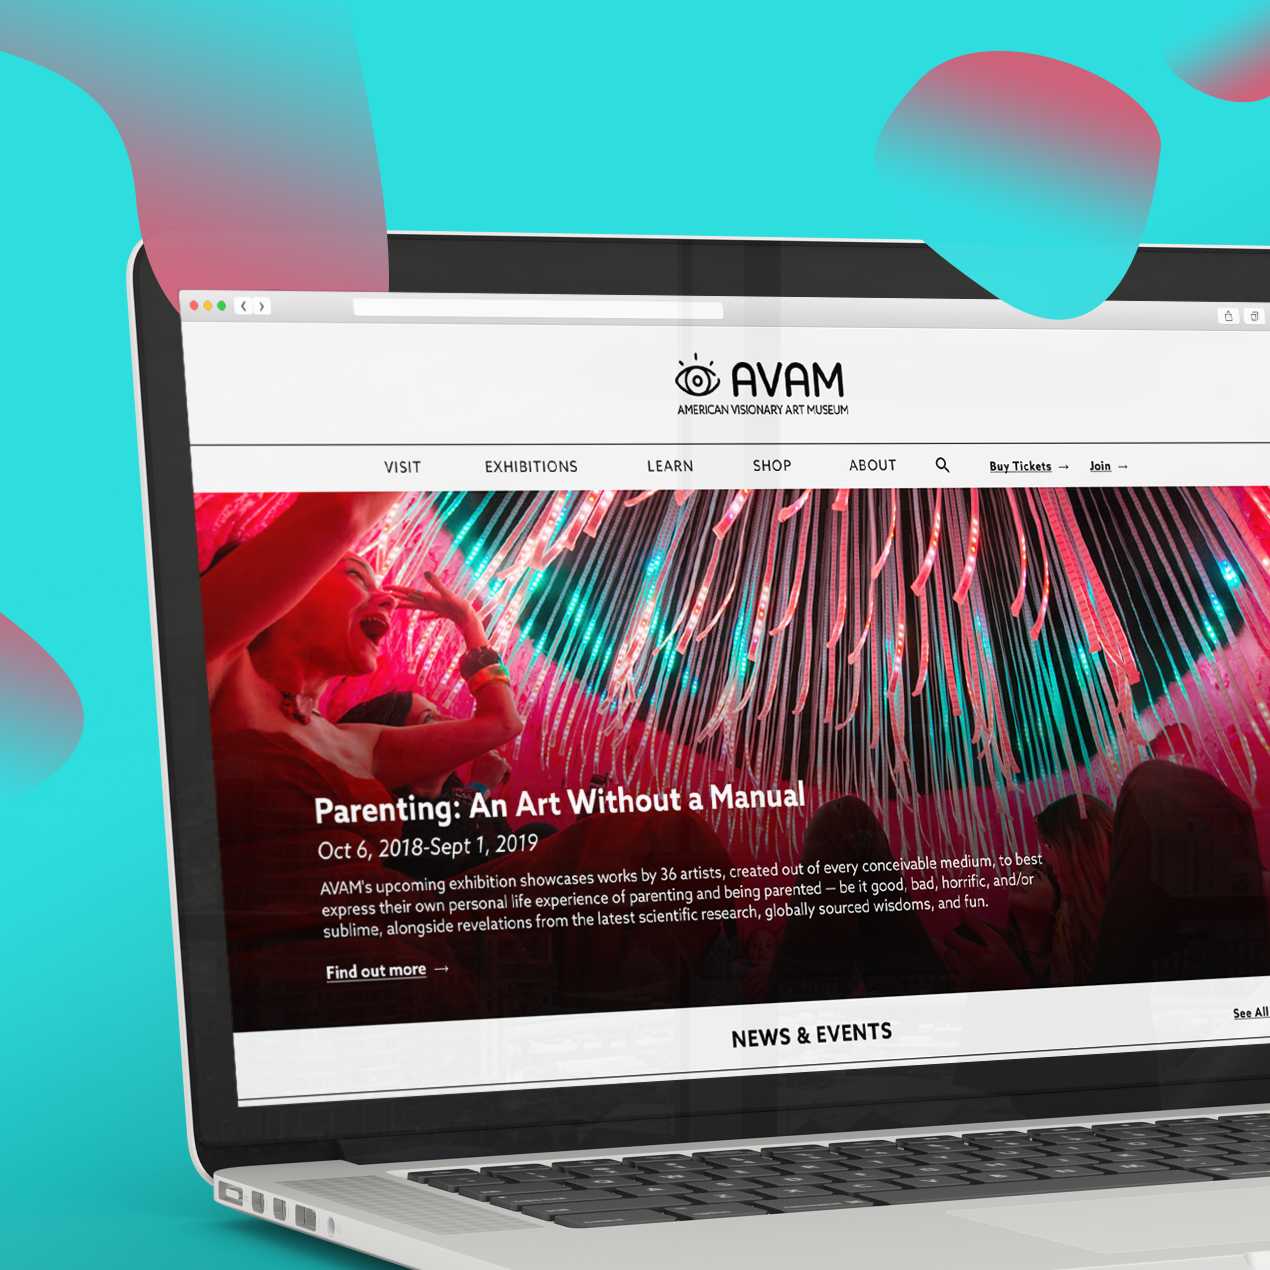
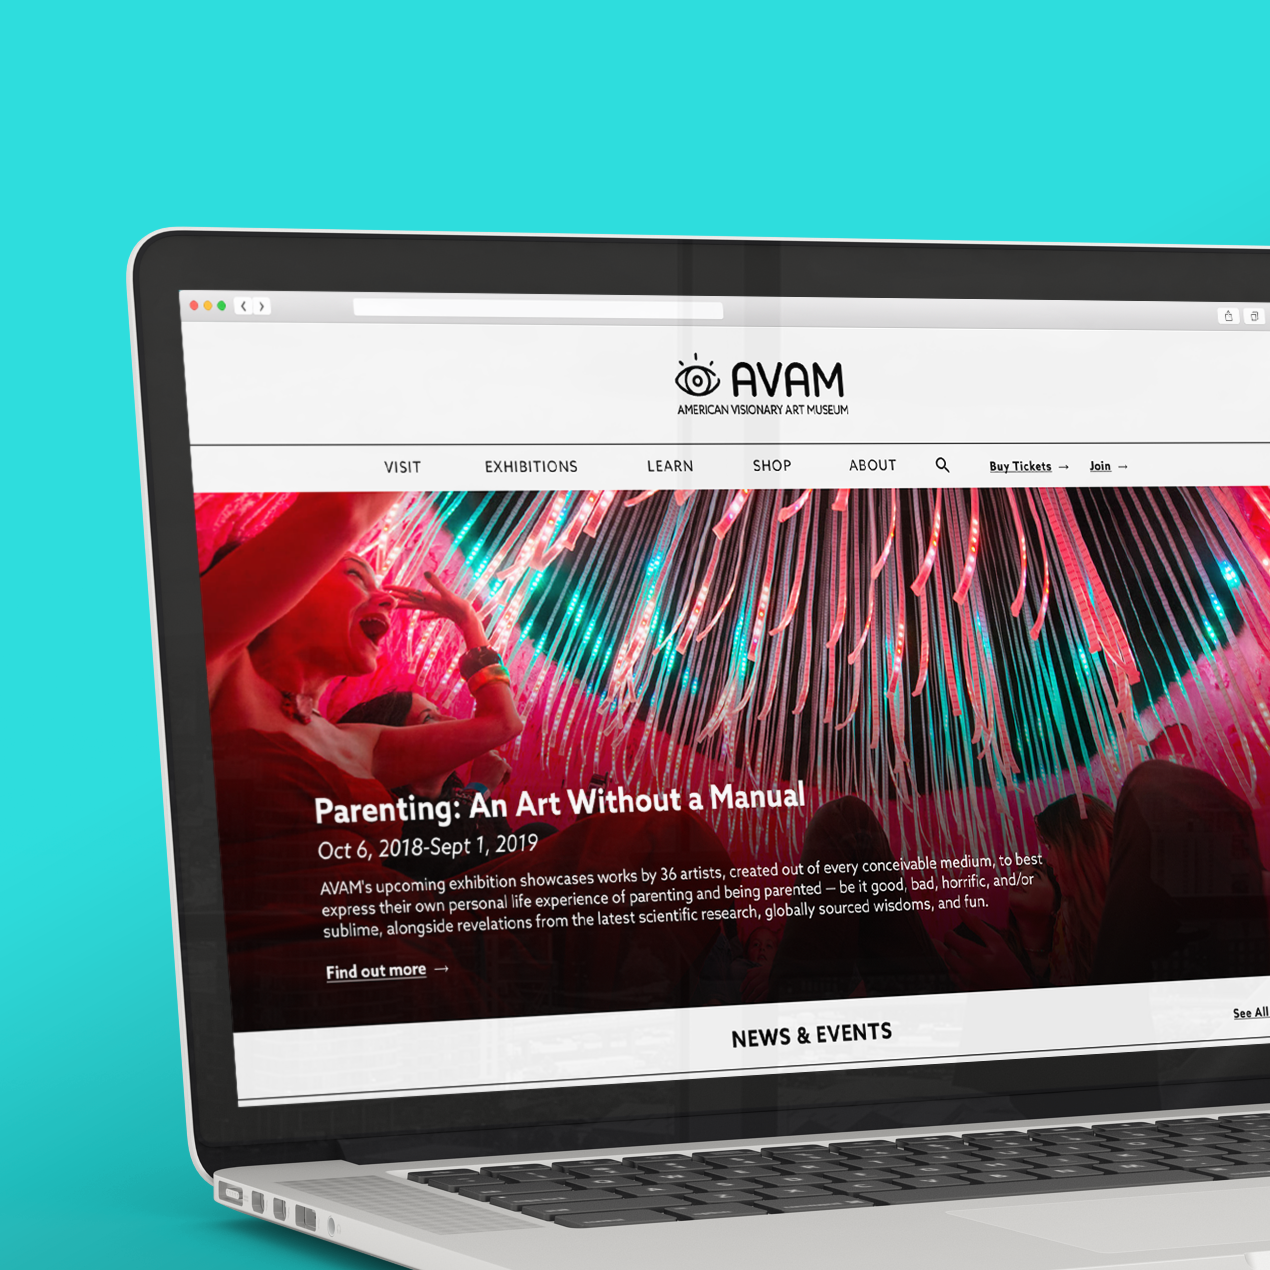
Added 2 thumbnails and made new hero.

Changed region(s): [[0.0, 0.0, 0.3071, 0.2457], [0.6756, 0.0, 1.0, 0.2764], [0.0, 0.4913, 0.0921, 0.6142]]

diff --git a/dist/styles/styles.css b/dist/styles/styles.css
@@ -292,7 +292,13 @@ body.fade-out {
 }
 
 .bezier-divider {
-  padding-bottom: 2em;
+  padding-top: 3em;
+}
+
+@media (max-width: 1120px) {
+  .bezier-divider {
+    padding-top: 1em;
+  }
 }
 
 /* Controls
@@ -434,7 +440,7 @@ body.fade-out {
 
 .filter-container .mix .babycaption {
   font-size: 15000%;
-  padding-top: 0.3em;
+  padding-top: 0.5em;
   padding-bottom: 2em;
   font-weight: 800;
 }
@@ -523,27 +529,57 @@ a.project {
   text-decoration: none;
 }
 
+.hero-wrapper {
+  margin-top: 8em;
+  display: -webkit-box;
+  display: -ms-flexbox;
+  display: flex;
+  -ms-flex-pack: distribute;
+      justify-content: space-around;
+}
+
+@media (max-width: 1120px) {
+  .hero-wrapper {
+    -webkit-box-pack: center;
+        -ms-flex-pack: center;
+            justify-content: center;
+    -webkit-box-orient: vertical;
+    -webkit-box-direction: normal;
+        -ms-flex-direction: column;
+            flex-direction: column;
+    -webkit-box-align: center;
+        -ms-flex-align: center;
+            align-items: center;
+  }
+}
+
 .hero {
   display: -webkit-box;
   display: -ms-flexbox;
   display: flex;
   -webkit-box-orient: vertical;
   -webkit-box-direction: normal;
-      -ms-flex-direction: column;
-          flex-direction: column;
-  padding-top: 6rem;
+  -ms-flex-direction: column;
+  flex-direction: column;
+  /* padding-top: 6rem; */
   text-align: center;
 }
 
 .hero__yana {
-  font-size: 300%;
+  font-size: 500%;
   padding-bottom: 1rem;
   font-weight: 300;
 }
 
+@media (max-width: 1120px) {
+  .hero__yana {
+    font-size: 400%;
+  }
+}
+
 @media (max-width: 680px) {
   .hero__yana {
-    font-size: 190%;
+    font-size: 200%;
   }
 }
 

diff --git a/src/styles/styles.css b/src/styles/styles.css
@@ -292,7 +292,13 @@ body.fade-out {
 }
 
 .bezier-divider {
-  padding-bottom: 2em;
+  padding-top: 3em;
+}
+
+@media (max-width: 1120px) {
+  .bezier-divider {
+    padding-top: 1em;
+  }
 }
 
 /* Controls
@@ -434,7 +440,7 @@ body.fade-out {
 
 .filter-container .mix .babycaption {
   font-size: 15000%;
-  padding-top: 0.3em;
+  padding-top: 0.5em;
   padding-bottom: 2em;
   font-weight: 800;
 }
@@ -523,27 +529,57 @@ a.project {
   text-decoration: none;
 }
 
+.hero-wrapper {
+  margin-top: 8em;
+  display: -webkit-box;
+  display: -ms-flexbox;
+  display: flex;
+  -ms-flex-pack: distribute;
+      justify-content: space-around;
+}
+
+@media (max-width: 1120px) {
+  .hero-wrapper {
+    -webkit-box-pack: center;
+        -ms-flex-pack: center;
+            justify-content: center;
+    -webkit-box-orient: vertical;
+    -webkit-box-direction: normal;
+        -ms-flex-direction: column;
+            flex-direction: column;
+    -webkit-box-align: center;
+        -ms-flex-align: center;
+            align-items: center;
+  }
+}
+
 .hero {
   display: -webkit-box;
   display: -ms-flexbox;
   display: flex;
   -webkit-box-orient: vertical;
   -webkit-box-direction: normal;
-      -ms-flex-direction: column;
-          flex-direction: column;
-  padding-top: 6rem;
+  -ms-flex-direction: column;
+  flex-direction: column;
+  /* padding-top: 6rem; */
   text-align: center;
 }
 
 .hero__yana {
-  font-size: 300%;
+  font-size: 500%;
   padding-bottom: 1rem;
   font-weight: 300;
 }
 
+@media (max-width: 1120px) {
+  .hero__yana {
+    font-size: 400%;
+  }
+}
+
 @media (max-width: 680px) {
   .hero__yana {
-    font-size: 190%;
+    font-size: 200%;
   }
 }
 

diff --git a/src/styles/elements/_hero.scss b/src/styles/elements/_hero.scss
@@ -1,19 +1,41 @@
-.hero {
+.hero-wrapper {
+    margin-top: 8em;
     display: flex;
+    justify-content: space-around;
+
+    @media (max-width: 1120px) {
+        justify-content: center;
+        flex-direction: column;
+        align-items: center;
+    }
+}
+
+.hero {
+    display: -webkit-box;
+    display: -ms-flexbox;
+    display: flex;
+    -webkit-box-orient: vertical;
+    -webkit-box-direction: normal;
+    -ms-flex-direction: column;
     flex-direction: column;
-    padding-top: 6rem;
+    /* padding-top: 6rem; */
     text-align: center;
+
+
 
 }
 
 .hero__yana {
-    font-size: 300%;
+    font-size: 500%;
     padding-bottom: 1rem;
     font-weight: 300;
 
+    @media (max-width: 1120px) {
+        font-size: 400%;
+    }
 
     @media (max-width: 680px) {
-        font-size: 190%;
+        font-size: 200%;
     }
 }
 

diff --git a/src/styles/elements/_content.scss b/src/styles/elements/_content.scss
@@ -26,7 +26,7 @@
 
 .filter-container .mix .babycaption {
     font-size: 15000%;
-    padding-top: 0.3em;
+    padding-top: 0.5em;
     padding-bottom: 2em;
     font-weight: 800;
 }

diff --git a/src/styles/elements/_bezier.scss b/src/styles/elements/_bezier.scss
@@ -1,3 +1,7 @@
 .bezier-divider {
-    padding-bottom: 2em;
+    padding-top: 3em;
+
+    @media (max-width: 1120px) {
+        padding-top: 1em;
+    }
 }
